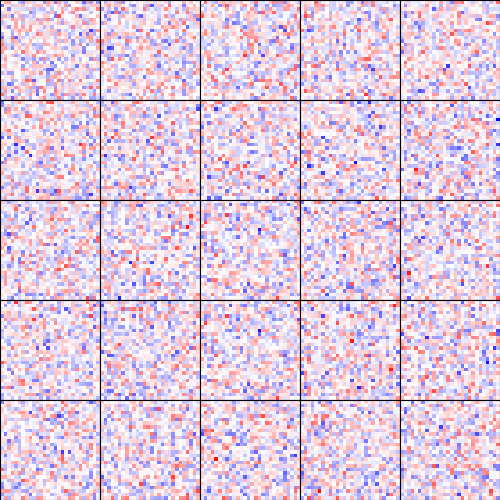
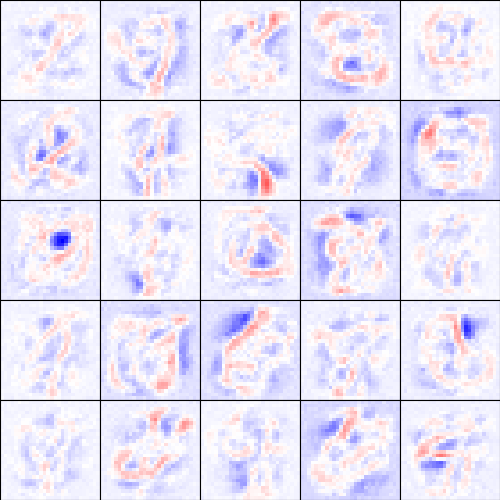
Completed CD algorithm with gibbs sampling - 4.1

diff --git a/Lab 4/rbm.py b/Lab 4/rbm.py
@@ -88,11 +88,11 @@ class RestrictedBoltzmannMachine():
             #Postitve phase
             hid_prob, h_id = self.get_h_given_v(minibatch)
 
-            #Negative phase
+            #Negative phase - Reconstruction
             vis_prob, v_is = self.get_v_given_h(h_id)
 
             # [TODO TASK 4.1] update the parameters using function 'update_params'
-            self.update_params(minibatch, h_id, v_is, )
+            self.update_params(minibatch, h_id, v_is, self.get_h_given_v(v_is)[0])
             
             # visualize once in a while when visible layer is input images
             
@@ -124,10 +124,10 @@ class RestrictedBoltzmannMachine():
         """
 
         # [TODO TASK 4.1] get the gradients from the arguments (replace the 0s below) and update the weight and bias parameters
-        
-        self.delta_bias_v += 0
-        self.delta_weight_vh += self.momentum * self.delta_weight_vh * ()
-        self.delta_bias_h += 0
+
+        self.delta_bias_v = self.learning_rate * (np.mean(v_0 - v_k, axis=0))
+        self.delta_weight_vh = self.learning_rate * (np.dot(v_0.T, h_0) - np.dot(v_k.T, h_k))
+        self.delta_bias_h = self.learning_rate * (np.mean(h_0 - h_k, axis=0))
         
         self.bias_v += self.delta_bias_v
         self.weight_vh += self.delta_weight_vh
@@ -195,7 +195,7 @@ class RestrictedBoltzmannMachine():
                         
             # [TODO TASK 4.1] compute probabilities and activations (samples from probabilities) of visible layer (replace the pass and zeros below)             
 
-            prob_v_given_h = sigmoid(self.bias_v + np.dot(hidden_minibatch, self.weight_vh))
+            prob_v_given_h = sigmoid(self.bias_v + np.dot(hidden_minibatch, self.weight_vh.T))
             act_v = sample_binary(prob_v_given_h)
         
         return prob_v_given_h, act_v

diff --git a/Lab 4/run.py b/Lab 4/run.py
@@ -12,7 +12,7 @@ if __name__ == "__main__":
     print ("\nStarting a Restricted Boltzmann Machine..")
 
     rbm = RestrictedBoltzmannMachine(ndim_visible=image_size[0]*image_size[1],
-                                     ndim_hidden=200,
+                                     ndim_hidden=500,
                                      is_bottom=True,
                                      image_size=image_size,
                                      is_top=False,
